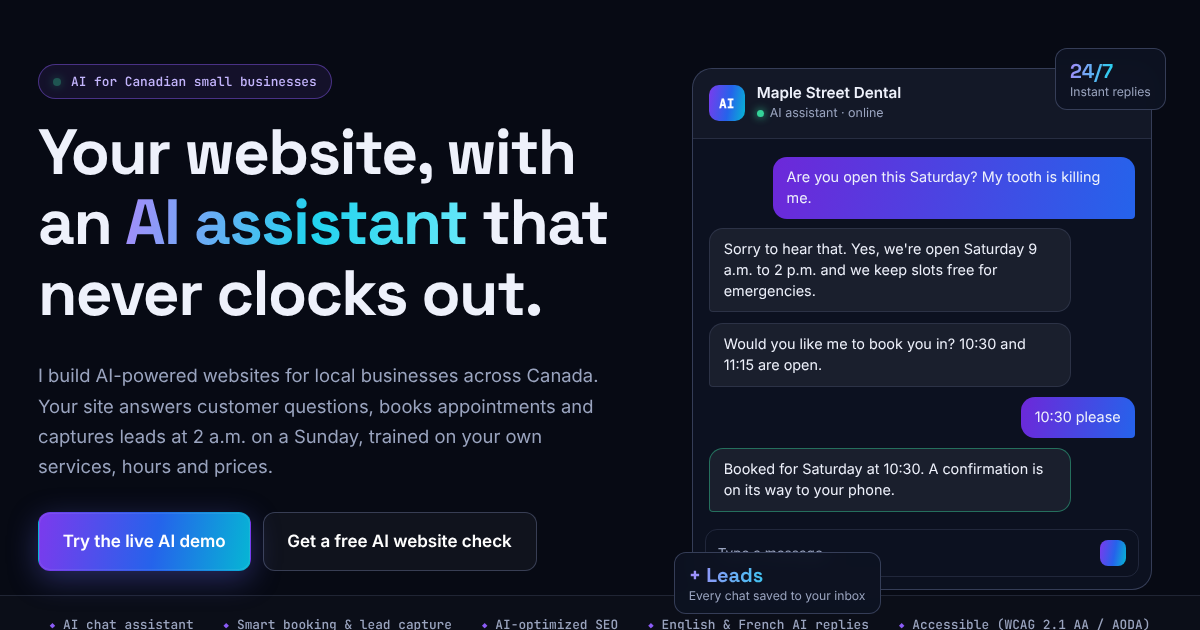
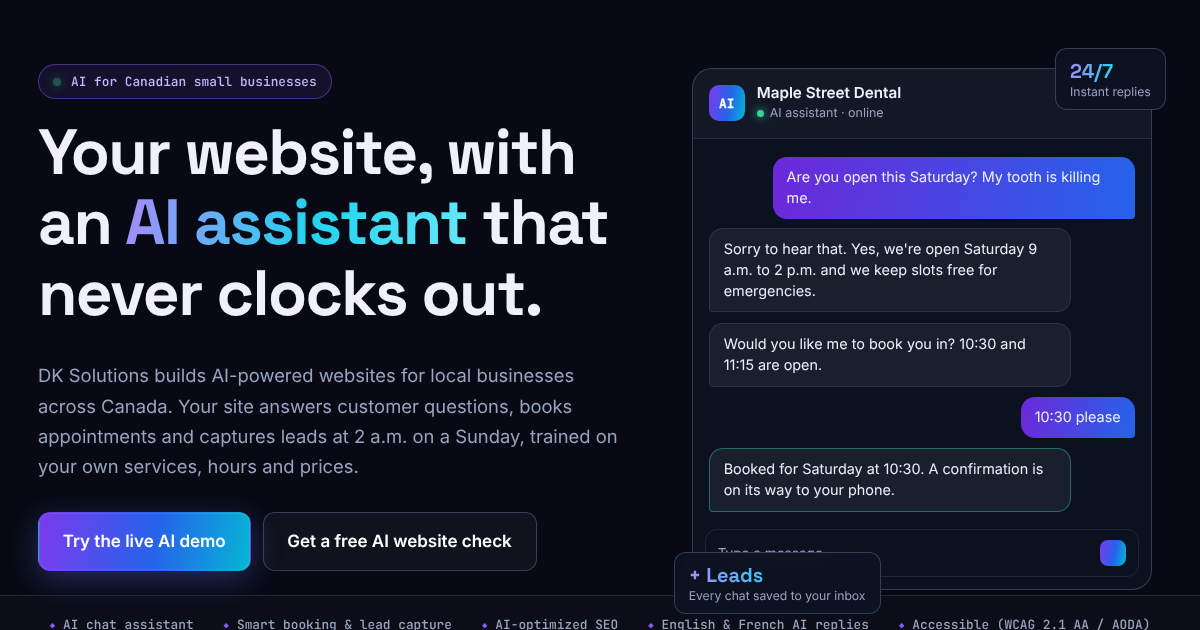
Rebrand as DK Solutions and serve from /DK-Solutions/
Claude-Session: https://claude.ai/code/session_01LJLXcPPLSJifxUV3YQJVzv

Changed region(s): [[0.0308, 0.573, 0.4933, 0.754]]

diff --git a/index.html b/index.html
@@ -3,16 +3,16 @@
 <head>
 <meta charset="utf-8">
 <meta name="viewport" content="width=device-width, initial-scale=1">
-<title>Deep Patel | AI-Powered Websites for Canadian Small Businesses</title>
-<meta name="description" content="Ottawa developer building AI-powered websites for Canadian small businesses: AI chat assistants that answer customers 24/7, automated bookings and follow-ups, AI search, and fast modern redesigns.">
-<link rel="canonical" href="https://deep-0301.github.io/">
+<title>DK Solutions | AI-Powered Websites for Canadian Small Businesses</title>
+<meta name="description" content="DK Solutions builds AI-powered websites for Canadian small businesses: AI chat assistants that answer customers 24/7, automated bookings and follow-ups, AI search, and fast modern redesigns.">
+<link rel="canonical" href="https://deep-0301.github.io/DK-Solutions/">
 <meta name="theme-color" content="#070a14">
 <meta property="og:type" content="website">
-<meta property="og:site_name" content="Deep Patel AI">
+<meta property="og:site_name" content="DK Solutions">
 <meta property="og:title" content="AI-powered websites for Canadian small businesses">
 <meta property="og:description" content="Websites with a built-in AI assistant that answers customers, books appointments and captures leads, day and night. Based in Ottawa.">
-<meta property="og:url" content="https://deep-0301.github.io/">
-<meta property="og:image" content="https://deep-0301.github.io/assets/img/og.png">
+<meta property="og:url" content="https://deep-0301.github.io/DK-Solutions/">
+<meta property="og:image" content="https://deep-0301.github.io/DK-Solutions/assets/img/og.png">
 <meta name="twitter:card" content="summary_large_image">
 <link rel="icon" type="image/svg+xml" href="assets/img/favicon.svg">
 <script>document.documentElement.classList.add('js');</script>
@@ -21,7 +21,7 @@
 <link rel="stylesheet" href="https://fonts.googleapis.com/css2?family=Space+Grotesk:wght@500;600;700&family=Inter:wght@400;500;600&family=JetBrains+Mono:wght@500&display=swap">
 <link rel="stylesheet" href="assets/css/style.css?v=2">
 <script type="application/ld+json">
-{"@context":"https://schema.org","@type":"ProfessionalService","name":"Deep Patel AI","url":"https://deep-0301.github.io/","email":"deepkpatel0301@gmail.com","description":"AI-powered websites, AI chat assistants and automation for Canadian small businesses.","areaServed":{"@type":"Country","name":"Canada"},"address":{"@type":"PostalAddress","addressLocality":"Ottawa","addressRegion":"ON","addressCountry":"CA"},"founder":{"@type":"Person","name":"Deep Patel","sameAs":["https://www.linkedin.com/in/deep-patel-0301/","https://github.com/deep-0301","https://medium.com/@deep0301"]}}
+{"@context":"https://schema.org","@type":"ProfessionalService","name":"DK Solutions","url":"https://deep-0301.github.io/DK-Solutions/","email":"deepkpatel0301@gmail.com","description":"AI-powered websites, AI chat assistants and automation for Canadian small businesses.","areaServed":{"@type":"Country","name":"Canada"},"address":{"@type":"PostalAddress","addressLocality":"Ottawa","addressRegion":"ON","addressCountry":"CA"},"founder":{"@type":"Person","name":"Deep Patel","sameAs":["https://www.linkedin.com/in/deep-patel-0301/","https://github.com/deep-0301","https://medium.com/@deep0301"]}}
 </script>
 </head>
 <body>
@@ -31,9 +31,9 @@
 
 <header class="site-header" id="top">
   <div class="wrap header-row">
-    <a class="brand" href="#top" aria-label="Deep Patel AI, home">
+    <a class="brand" href="#top" aria-label="DK Solutions, home">
       <img src="assets/img/favicon.svg" alt="" width="34" height="34">
-      <span>Deep Patel <em>AI</em></span>
+      <span>DK <em>Solutions</em></span>
     </a>
     <nav class="nav" id="site-nav" aria-label="Main">
       <a href="#services">AI services</a>
@@ -56,7 +56,7 @@
     <div class="hero-copy">
       <p class="pill"><span class="dot" aria-hidden="true"></span>AI for Canadian small businesses</p>
       <h1>Your website, with an <span class="grad">AI assistant</span> that never clocks out.</h1>
-      <p class="lead">I build AI-powered websites for local businesses across Canada. Your site answers customer questions, books appointments and captures leads at 2&nbsp;a.m. on a Sunday, trained on your own services, hours and prices.</p>
+      <p class="lead">DK Solutions builds AI-powered websites for local businesses across Canada. Your site answers customer questions, books appointments and captures leads at 2&nbsp;a.m. on a Sunday, trained on your own services, hours and prices.</p>
       <div class="hero-cta">
         <button class="btn" type="button" data-open-chat>Try the live AI demo</button>
         <a class="btn btn-ghost" href="#contact">Get a free AI website check</a>
@@ -311,7 +311,7 @@
     <div class="about-copy">
       <p class="eyebrow">// about me</p>
       <h2>An AI engineer who speaks small business.</h2>
-      <p>I'm Deep Patel, a developer in Ottawa with a Master of Engineering in Electrical and Computer Engineering from Carleton University. My background is in machine learning, deep learning and full-stack web development, and I've built software for a government research institute, an IT services company, a manufacturer and Ottawa's transit workers.</p>
+      <p>I'm Deep Patel, founder of DK Solutions and a developer in Ottawa with a Master of Engineering in Electrical and Computer Engineering from Carleton University. My background is in machine learning, deep learning and full-stack web development, and I've built software for a government research institute, an IT services company, a manufacturer and Ottawa's transit workers.</p>
       <p>I use that to give small businesses the kind of AI tools big companies have, without the jargon or the big-company price tag. You deal with one person from first call to launch, and you own everything I build.</p>
       <ul class="creds">
         <li><strong>MEng</strong> Carleton University</li>
@@ -408,7 +408,7 @@
 
 <footer class="site-footer">
   <div class="wrap footer-row">
-    <p>&copy; <span data-year>2026</span> Deep Patel. AI-powered websites for Canadian small businesses.</p>
+    <p>&copy; <span data-year>2026</span> DK Solutions. AI-powered websites for Canadian small businesses.</p>
     <nav aria-label="Social">
       <a href="https://www.linkedin.com/in/deep-patel-0301/" target="_blank" rel="noopener">LinkedIn</a>
       <a href="https://github.com/deep-0301" target="_blank" rel="noopener">GitHub</a>
@@ -424,7 +424,7 @@
 <section class="chat" id="chat" role="dialog" aria-modal="false" aria-labelledby="chat-title" hidden>
   <header class="chat-head">
     <span class="avatar" aria-hidden="true">AI</span>
-    <div><strong id="chat-title">Deep's AI assistant</strong><small><i></i>Demo · answers about my services</small></div>
+    <div><strong id="chat-title">DK Solutions AI assistant</strong><small><i></i>Demo · answers about my services</small></div>
     <button class="chat-close" type="button" data-close-chat aria-label="Close the assistant">&times;</button>
   </header>
   <div class="chat-log" aria-live="polite"></div>

diff --git a/assets/js/main.js b/assets/js/main.js
@@ -32,8 +32,8 @@
      A scripted demo that answers from a small knowledge base about Deep's services,
      the same way a client's assistant answers only from their own business info. */
   var KB = [
-    { k: ['hi', 'hello', 'hey', 'bonjour', 'salut'], a: 'Hi! I\'m Deep\'s AI assistant. Ask me what an AI website can do for your business, how long it takes, or how to get a free AI website check.' },
-    { k: ['services', 'service', 'offer', 'build', 'provide', 'sell'], a: 'Deep builds AI-powered websites for Canadian small businesses: an AI chat assistant trained on your business, automated booking and lead capture, AI search for your documents, AI-ready local SEO, and full redesigns. <a href="#services">See all services</a>.' },
+    { k: ['hi', 'hello', 'hey', 'bonjour', 'salut'], a: 'Hi! I\'m the DK Solutions AI assistant. Ask me what an AI website can do for your business, how long it takes, or how to get a free AI website check.' },
+    { k: ['services', 'service', 'offer', 'build', 'provide', 'sell'], a: 'DK Solutions builds AI-powered websites for Canadian small businesses: an AI chat assistant trained on your business, automated booking and lead capture, AI search for your documents, AI-ready local SEO, and full redesigns. <a href="#services">See all services</a>.' },
     { k: ['chatbot', 'assistant', 'bot', 'ai', 'chat', 'trained', 'train'], a: 'An assistant like me, trained only on your services, hours, prices and policies. It answers customers 24/7, books appointments and sends every lead to your inbox. If it doesn\'t know something, it hands the question to you instead of guessing.' },
     { k: ['price', 'cost', 'much', 'pricing', 'quote', 'budget', 'expensive', 'cheap', 'afford'], a: 'Every project gets its own fixed quote, free, before any work starts. Tell Deep a little about your business in the <a href="#contact">contact form</a> and you\'ll usually hear back within one business day.' },
     { k: ['long', 'time', 'timeline', 'weeks', 'fast', 'quick', 'when'], a: 'Most AI Starter sites go live in about 2 weeks, and AI Business sites in 3 to 4 weeks. Adding an assistant to an existing site can take just a few days.' },
@@ -42,7 +42,7 @@
     { k: ['privacy', 'data', 'safe', 'secure', 'pipeda', 'security'], a: 'Sites are set up with Canada\'s privacy law (PIPEDA) in mind: customers know they\'re talking to an AI, only needed details are collected, and conversations go to you, not into public AI training.' },
     { k: ['wrong', 'mistake', 'hallucinate', 'accurate', 'trust', 'reliable'], a: 'The assistant answers only from information you approve. You test it together with Deep before launch, and chats are reviewed afterwards so answers keep improving.' },
     { k: ['where', 'located', 'location', 'ottawa', 'canada', 'local', 'meet'], a: 'Deep is based in Ottawa, Ontario, and works with small businesses anywhere in Canada by phone and video. Happy to meet in person around Ottawa.' },
-    { k: ['who', 'deep', 'about', 'experience', 'background', 'qualified'], a: 'Deep Patel is an Ottawa developer with a Master of Engineering from Carleton University and a background in machine learning and full-stack web development. <a href="#about">More about Deep</a>.' },
+    { k: ['who', 'deep', 'dk', 'solutions', 'about', 'experience', 'background', 'qualified'], a: 'DK Solutions is run by Deep Patel, an Ottawa developer with a Master of Engineering from Carleton University and a background in machine learning and full-stack web development. <a href="#about">More about Deep</a>.' },
     { k: ['work', 'portfolio', 'examples', 'projects', 'past', 'example'], a: 'Recent work includes an AI rules assistant for ATU Local 279, an OCR timesheet app for Ottawa transit operators, and a website redesign for Safal Embedded Solution. <a href="#work">See the projects</a>.' },
     { k: ['contact', 'email', 'call', 'talk', 'reach', 'start', 'book', 'check', 'free'], a: 'The easiest way is the free AI website check: fill in the <a href="#contact">form</a> or email <a href="mailto:' + EMAIL + '">' + EMAIL + '</a>. Deep will reply within one business day.' }
   ];
@@ -94,7 +94,7 @@
 
     function openChat() {
       chat.hidden = false; fab.setAttribute('aria-expanded', 'true');
-      if (!started) { started = true; add('Hi! I\'m a live demo of the kind of AI assistant Deep builds for small businesses. Ask me anything about his services, or tap a question below.', 'bot'); }
+      if (!started) { started = true; add('Hi! I\'m a live demo of the kind of AI assistant DK Solutions builds for small businesses. Ask me anything about his services, or tap a question below.', 'bot'); }
       setTimeout(function () { input.focus(); }, 50);
     }
     function closeChat() { chat.hidden = true; fab.setAttribute('aria-expanded', 'false'); fab.focus(); }

diff --git a/404.html b/404.html
@@ -3,17 +3,17 @@
 <head>
 <meta charset="utf-8">
 <meta name="viewport" content="width=device-width, initial-scale=1">
-<title>Page not found | Deep Patel Web</title>
+<title>Page not found | DK Solutions</title>
 <meta name="robots" content="noindex">
-<link rel="icon" type="image/svg+xml" href="/assets/img/favicon.svg">
-<link rel="stylesheet" href="/assets/css/style.css?v=1">
+<link rel="icon" type="image/svg+xml" href="/DK-Solutions/assets/img/favicon.svg">
+<link rel="stylesheet" href="/DK-Solutions/assets/css/style.css?v=2">
 </head>
 <body>
 <main class="section"><div class="wrap narrow">
 <p class="eyebrow">404</p>
 <h1>This page doesn't exist.</h1>
 <p class="sub">The link may be old or mistyped.</p>
-<a class="btn" href="/">Go to the homepage</a>
+<a class="btn" href="/DK-Solutions/">Go to the homepage</a>
 </div></main>
 </body>
 </html>

diff --git a/README.md b/README.md
@@ -1,8 +1,8 @@
-# Deep Patel Web
+# DK Solutions
 
-Portfolio and services site for Deep Patel, an Ottawa developer building AI-powered websites (AI chat assistants, booking and lead automation, AI search) for Canadian small businesses.
+Website for DK Solutions, Deep Patel's Ottawa studio building AI-powered websites (AI chat assistants, booking and lead automation, AI search) for Canadian small businesses.
 
-Live at **https://deep-0301.github.io/**
+Live at **https://deep-0301.github.io/DK-Solutions/**
 
 Plain HTML, CSS and JavaScript with no build step. GitHub Pages serves it straight from the `main` branch.
 
